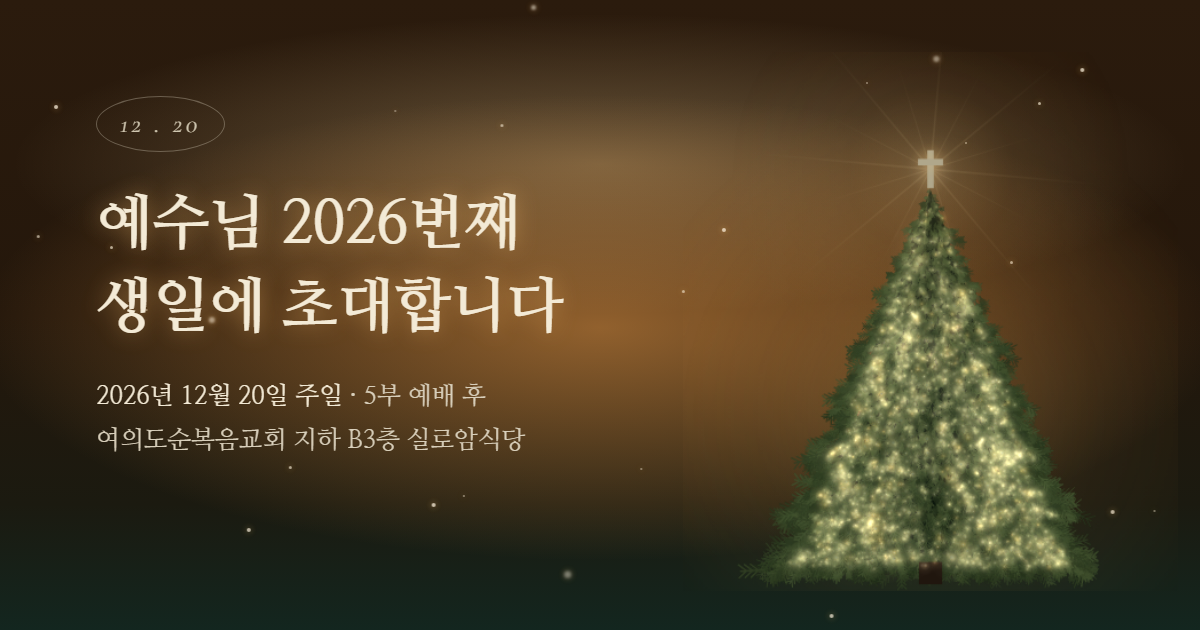
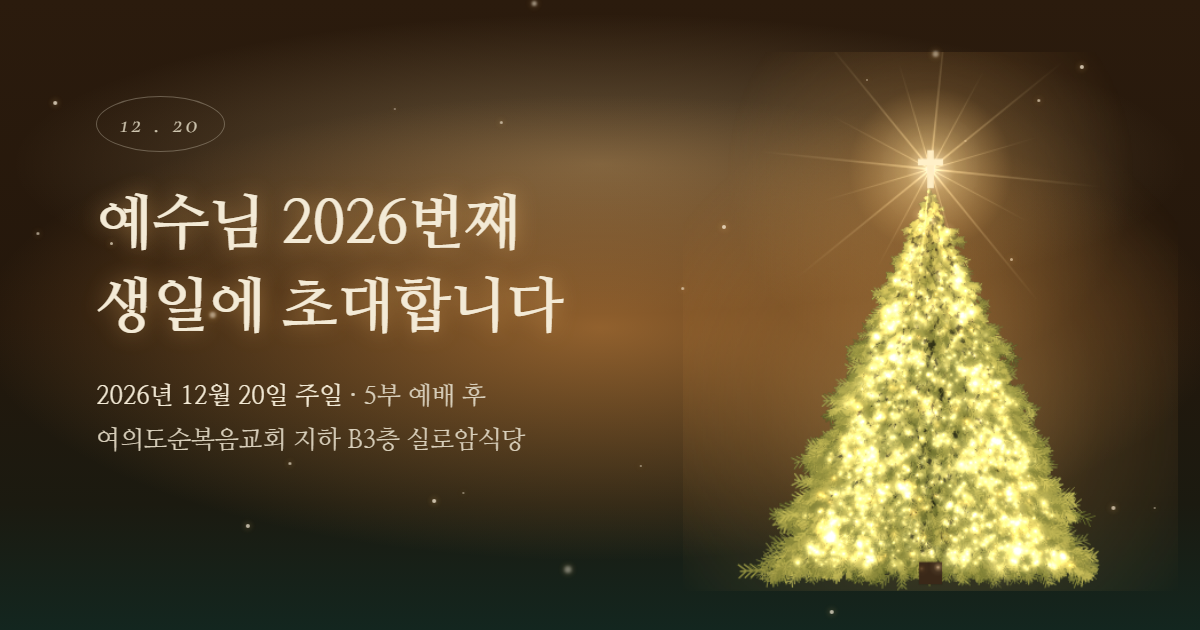
초대장 업데이트 2026-11-25 14:47

Changed region(s): [[0.6167, 0.1206, 0.925, 0.9349], [0.1542, 0.4825, 0.185, 0.5127]]

diff --git a/index.html b/index.html
@@ -582,7 +582,7 @@
   var foliageDark = null;  // 불 꺼진 바늘잎
   var foliageLit  = null;  // 불 받은 바늘잎
   var lights = [];
-  var UNLIT = 0.24;
+  var UNLIT = 0.14;
   var level = UNLIT, levelTarget = UNLIT; // 트리 전구 밝기: 처음엔 은은하게
   var cross = 0,    crossTarget = 0;      // 십자가 빛
   var running = true;
@@ -697,7 +697,7 @@
   }
   function buildLights() {
     var rnd = seeded(1225);
-    var count = Math.round(geo.w * geo.h / 52);
+    var count = Math.round(geo.w * geo.h / 85);
     var span = geo.bottom - geo.top;
     lights = [];
     for (var i = 0; i < count; i++) {
@@ -712,7 +712,10 @@
         base: 0.55 + rnd() * 0.45,
         phase: rnd() * Math.PI * 2,
         speed: 0.5 + rnd() * 1.9,
-        amber: rnd() < 0.14
+        amber: rnd() < 0.14,
+        /* 켜기 전에도 빛나는 건 셋 중 하나. 나머지는 십자가를 누르면 켜진다 */
+        early: rnd() < 0.3,
+        delay: rnd()
       });
     }
   }
@@ -772,13 +775,15 @@
     if (!running || !geo) { return; }
     level += (levelTarget - level) * (reduceMotion ? 1 : 0.03);
     cross += (crossTarget - cross) * (reduceMotion ? 1 : 0.07);
+    /* 0: 켜기 전, 1: 다 켜짐 */
+    var litMix = Math.max(0, Math.min(1, (level - UNLIT) / (1 - UNLIT)));
     ctx.setTransform(geo.dpr, 0, 0, geo.dpr, 0, 0);
     ctx.clearRect(0, 0, geo.cw, geo.ch);
     /* 트리 뒤로 퍼지는 빛 */
     var midY = geo.top + (geo.bottom - geo.top) * 0.58;
     var bloom = ctx.createRadialGradient(geo.cx, midY, 0, geo.cx, midY, geo.w * 0.95);
-    bloom.addColorStop(0, "rgba(255,200,120," + (0.04 + 0.42 * level) + ")");
-    bloom.addColorStop(0.55, "rgba(255,180,90," + (0.01 + 0.14 * level) + ")");
+    bloom.addColorStop(0, "rgba(255,200,120," + (0.03 + 0.36 * litMix) + ")");
+    bloom.addColorStop(0.55, "rgba(255,180,90," + (0.01 + 0.12 * litMix) + ")");
     bloom.addColorStop(1, "rgba(255,180,90,0)");
     ctx.fillStyle = bloom;
     ctx.fillRect(0, 0, geo.cw, geo.ch);
@@ -786,19 +791,23 @@
     ctx.setTransform(1, 0, 0, 1, 0, 0);
     ctx.drawImage(foliageDark, 0, 0);
     /* 켜기 전엔 바늘잎이 거의 어둡고, 켜지면 노란빛 초록으로 살아난다 */
-    var litMix = Math.max(0, Math.min(1, (level - UNLIT) / (1 - UNLIT)));
-    ctx.globalAlpha = 0.12 + 0.88 * Math.pow(litMix, 1.1);
+    ctx.globalAlpha = 0.05 + 0.95 * Math.pow(litMix, 1.1);
     ctx.drawImage(foliageLit, 0, 0);
     ctx.globalAlpha = 1;
     ctx.setTransform(geo.dpr, 0, 0, geo.dpr, 0, 0);
     /* 전구 */
     ctx.globalCompositeOperation = "lighter";
     var tsec = now / 1000;
-    var glow = 5 + 6 * level;
+    /* 빛은 더해지며 쌓이므로(lighter) 다 켜졌을 때 하얗게 타지 않게 번짐을 작게 둔다 */
+    var glow = 3.5 + 2.8 * litMix;
     for (var i = 0; i < lights.length; i++) {
       var L = lights[i];
       var tw = reduceMotion ? 0.85 : 0.62 + 0.38 * Math.sin(tsec * L.speed + L.phase);
-      var a = level * L.base * tw;
+      /* 켜기 전: 일부만 희미하게. 누르면 나머지가 저마다 조금씩 늦게 하나둘 켜진다 */
+      var on = L.early
+        ? 0.42 + 0.58 * litMix
+        : Math.max(0, Math.min(1, (litMix - L.delay * 0.55) / 0.45));
+      var a = on * L.base * tw * 0.8;
       if (a < 0.015) { continue; }
       ctx.globalAlpha = a > 1 ? 1 : a;
       var s = L.r * glow;
@@ -832,11 +841,13 @@
   var hint   = document.getElementById("hint");
   var invite = document.getElementById("invite");
   var lit = false;
-  function light() {
+  /* instant 는 화면 그림을 뜰 때만 쓴다 (shots.mjs) — 애니메이션을 건너뛰고 끝 상태로 */
+  function light(instant) {
     if (lit) { return; }
     lit = true;
     crossTarget = 1;
     levelTarget = 1;
+    if (instant === true) { level = 1; cross = 1; }
     stage.classList.add("is-lit");
     document.body.classList.add("lit");
     invite.hidden = false;
@@ -847,8 +858,8 @@
       invite.scrollIntoView({ behavior: "smooth", block: "start" });
     }, 2600);
   }
-  document.getElementById("cross").addEventListener("click", light);
-  document.getElementById("skip").addEventListener("click", light);
+  document.getElementById("cross").addEventListener("click", function () { light(); });
+  document.getElementById("skip").addEventListener("click", function () { light(); });
   window.__lightTree = light;
   /* ───────── 참석 응답 ───────── */
   /* 응답이 모이는 곳 (Supabase). 이 키는 공개용이라 초대장에 들어가도 괜찮습니다.
